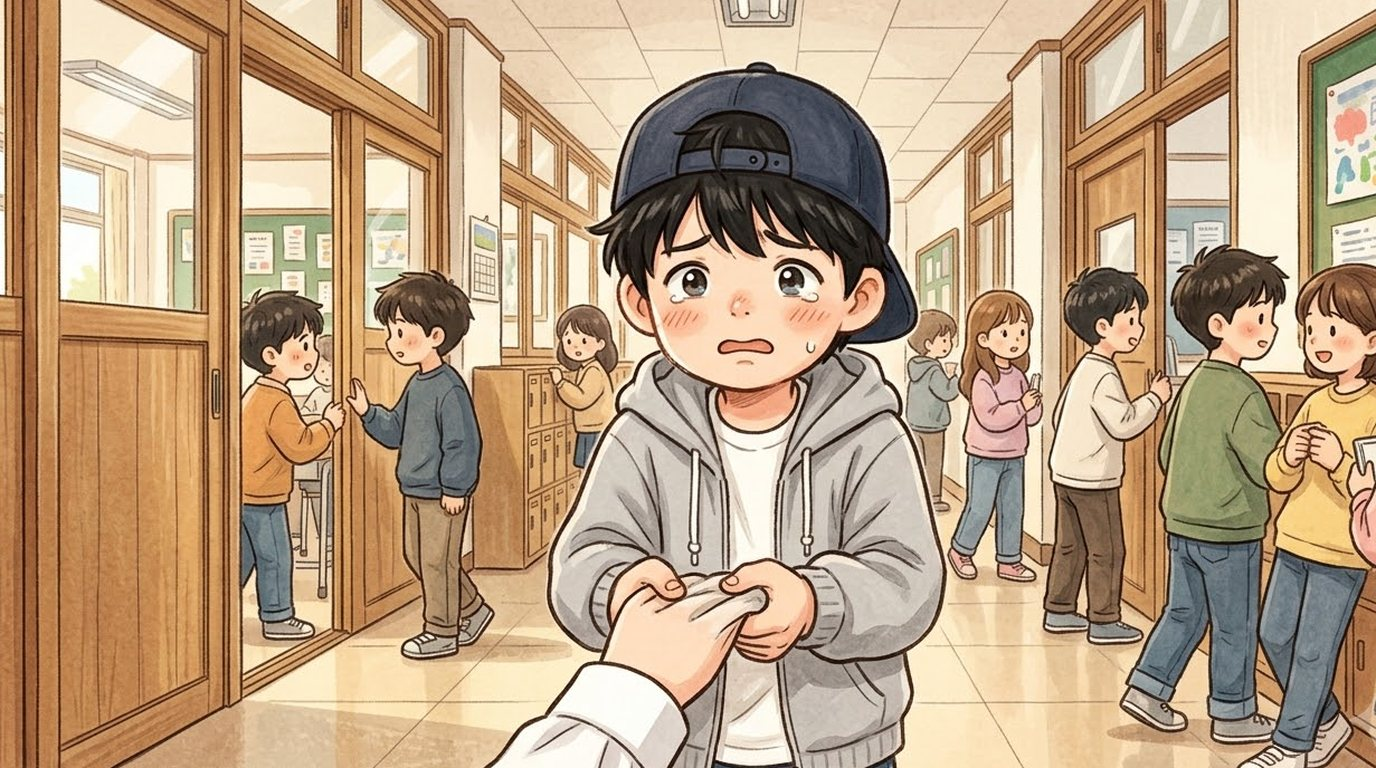
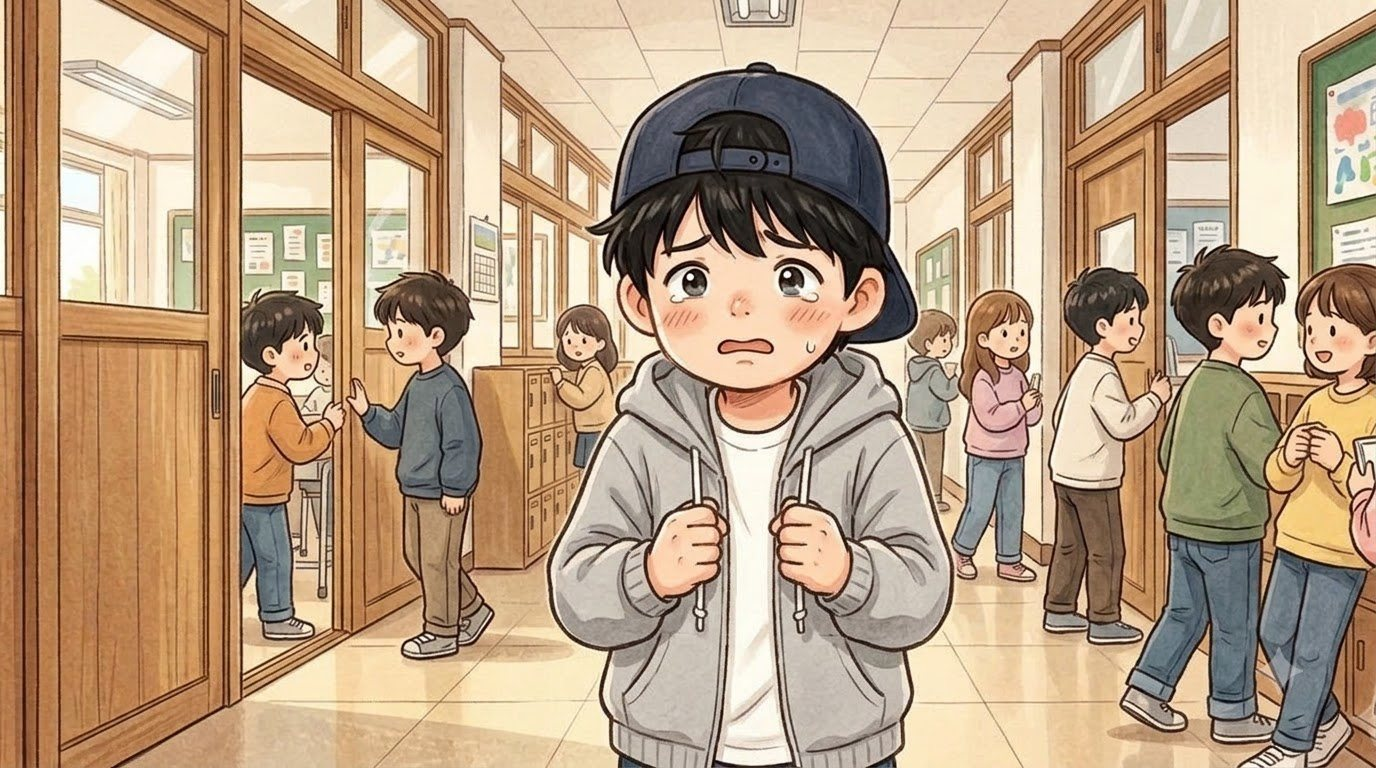
지훈 12 다시 그림 (인권 수정: 지훈이가 나를 붙잡지 않고 자기 후드 끈을 쥠)

diff --git a/index.html b/index.html
@@ -119,14 +119,14 @@ body,button{word-break:keep-all;overflow-wrap:break-word}
 <div id="fader"></div>
 <script>
 // same address, newest version: if the page this phone has kept is older than the one online, fetch the new one and reopen
-const BUILD='1104121317';
+const BUILD='1104122240';
 try{fetch(location.pathname,{cache:'no-store'}).then(r=>r.text()).then(t=>{const m=t.match(/const BUILD='(\d+)'/);if(m&&m[1]!==BUILD&&sessionStorage.getItem('upd')!==m[1]){sessionStorage.setItem('upd',m[1]);fetch(location.pathname,{cache:'reload'}).then(()=>location.reload())}}).catch(()=>{})}catch(e){}
 </script>
-<script src="i18n.js?v=1104121317"></script>
-<script src="i18n_prologue_v2.js?v=1104121317"></script>
-<script src="day2/i18n_engine.js?v=1104121317"></script>
-<script src="day2/data.js?v=1104121317"></script>
-<script src="day3/data.js?v=1104121317"></script>
+<script src="i18n.js?v=1104122240"></script>
+<script src="i18n_prologue_v2.js?v=1104122240"></script>
+<script src="day2/i18n_engine.js?v=1104122240"></script>
+<script src="day2/data.js?v=1104122240"></script>
+<script src="day3/data.js?v=1104122240"></script>
 <script>
 // ---------- data ----------
 const MW=1672,MH=941,KID=180;
@@ -537,28 +537,28 @@ function pickHero(){const m=document.getElementById('modal'),c=document.getEleme
  c.innerHTML=`<h2>${tr('괴짜교실 반장되기')}</h2><p>${tr('말 한마디 못 하는 전학생,<br>반장 선거에 나가다.')}</p><p style="margin-top:14px">${tr('누구로 할까요?')}</p>${(()=>{const s=loadSave();return s&&s.day>=2&&s.mode===UI+'-'+LANG?`<p><button class="big" id="cont">${tr(s.day+'일차부터 이어 하기')}</button></p>`:''})()}<div class="pick heroes"><button data-h="hero_f"><img src="faces/hero_f_smile.jpg" alt="여자 주인공"></button><button data-h="hero_m"><img src="faces/hero_m_smile.jpg" alt="남자 주인공"></button></div>`;
  m.classList.add('on');{const cb=document.getElementById('cont');if(cb)cb.onclick=()=>{const s=loadSave();HERO=s.hero;Object.assign(HEART,s.heart||{});(s.found||[]).forEach(k=>FOUND.add(k));HEART_D1={...HEART};chime();(typeof contGame==='function'?contGame(s):startDay(Math.min(s.day,Object.keys(window.D3||{}).length?3:2)))}}c.querySelectorAll('.pick button').forEach(b=>b.onclick=()=>{HERO=b.dataset.h;m.classList.remove('on');chime();bgm('day');load('home_am');say([['nar','','이사 온 다음 날 아침. 아직 풀지 못한 상자들이 쌓여 있다.'],['think','sad','(오늘부터 새 학교야. 여기 말도 아직 서툰데…….)'],['think','smile','({m}한테 인사하고 학교 가야지.)']],morning)})}
 </script>
-<script src="day2/engine.js?v=1104121317"></script>
-<script src="day2/ep_minho.js?v=1104121317"></script>
-<script src="day2/meet.js?v=1104121317"></script>
-<script src="day2/ep_sua.js?v=1104121317"></script>
-<script src="day2/ep_hangyeol.js?v=1104121317"></script>
-<script src="day2/ep_siwoo.js?v=1104121317"></script>
-<script src="day2/ep_haram.js?v=1104121317"></script>
-<script src="day2/ep_jiho.js?v=1104121317"></script>
-<script src="day2/ep_hyeeun.js?v=1104121317"></script>
-<script src="day2/ep_haneul.js?v=1104121317"></script>
-<script src="day2/ep_junho.js?v=1104121317"></script>
-<script src="day2/ep_yuna.js?v=1104121317"></script>
-<script src="day2/ep_yena.js?v=1104121317"></script>
-<script src="day2/ep_haeun.js?v=1104121317"></script>
-<script src="day2/ep_youngmin.js?v=1104121317"></script>
-<script src="day2/ep_seah.js?v=1104121317"></script>
-<script src="day2/ep_jihoon.js?v=1104121317"></script>
-<script src="words_ja_ru.js?v=1104121317"></script>
-<script src="day2/mybag.js?v=1104121317"></script>
-<script src="day2/spots.js?v=1104121317"></script>
-<script src="day2/textfit.js?v=1104121317"></script>
-<script src="day2/tester.js?v=1104121317"></script>
+<script src="day2/engine.js?v=1104122240"></script>
+<script src="day2/ep_minho.js?v=1104122240"></script>
+<script src="day2/meet.js?v=1104122240"></script>
+<script src="day2/ep_sua.js?v=1104122240"></script>
+<script src="day2/ep_hangyeol.js?v=1104122240"></script>
+<script src="day2/ep_siwoo.js?v=1104122240"></script>
+<script src="day2/ep_haram.js?v=1104122240"></script>
+<script src="day2/ep_jiho.js?v=1104122240"></script>
+<script src="day2/ep_hyeeun.js?v=1104122240"></script>
+<script src="day2/ep_haneul.js?v=1104122240"></script>
+<script src="day2/ep_junho.js?v=1104122240"></script>
+<script src="day2/ep_yuna.js?v=1104122240"></script>
+<script src="day2/ep_yena.js?v=1104122240"></script>
+<script src="day2/ep_haeun.js?v=1104122240"></script>
+<script src="day2/ep_youngmin.js?v=1104122240"></script>
+<script src="day2/ep_seah.js?v=1104122240"></script>
+<script src="day2/ep_jihoon.js?v=1104122240"></script>
+<script src="words_ja_ru.js?v=1104122240"></script>
+<script src="day2/mybag.js?v=1104122240"></script>
+<script src="day2/spots.js?v=1104122240"></script>
+<script src="day2/textfit.js?v=1104122240"></script>
+<script src="day2/tester.js?v=1104122240"></script>
 <script>
 // the goal shows big for a few seconds, then folds into a small pill (tap it to open it again)
 {const g=document.getElementById('goal');let t=null;const big=()=>{g.classList.remove('mini');clearTimeout(t);t=setTimeout(()=>g.classList.add('mini'),4000)};
